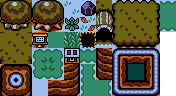
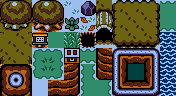
marais

Changed region(s): [[0.9091, 0.3125, 1.0, 1.0]]

diff --git a/public/world/Floor.js b/public/world/Floor.js
@@ -190,12 +190,19 @@ export class Floor extends Entity {
                 'MAR_TERRE_3': { sx: 0, sy: 80 }, 'MAR_MARECAGE_9': { sx: 16, sy: 80 }, 'MAR_MARECAGE_10': { sx: 32, sy: 80 }, 'MAR_PLANCHE_5': { sx: 48, sy: 80 }, 'MAR_PLANCHE_6': { sx: 64, sy: 80 }, 'MAR_BOIS_4': { sx: 80, sy: 80 }, 'MAR_SOMBRE_10': { sx: 96, sy: 80 }, 'MAR_BOUE_9': { sx: 112, sy: 80 }, 'MAR_BOUE_10': { sx: 128, sy: 80 }, 'MAR_SOMBRE_11': { sx: 144, sy: 80 }, 'MAR_EXTRA_6': { sx: 160, sy: 80 },
             };
 
+            let currentType = this.type;
+            if (['MAR_EXTRA_3', 'MAR_EXTRA_4', 'MAR_EXTRA_5', 'MAR_EXTRA_6'].includes(this.type)) {
+                const anim = ['MAR_EXTRA_3', 'MAR_EXTRA_4', 'MAR_EXTRA_5', 'MAR_EXTRA_6'];
+                const frameIndex = Math.floor(Date.now() / 300) % 4;
+                currentType = anim[frameIndex];
+            }
 
-            const mt = marMapping[this.type];
+            const mt = marMapping[currentType];
             if (mt) {
                 ctx.drawImage(marImg, mt.sx, mt.sy, 16, 16, this.x, this.y, this.width, this.height);
             }
             return;
+
         }
 
 
